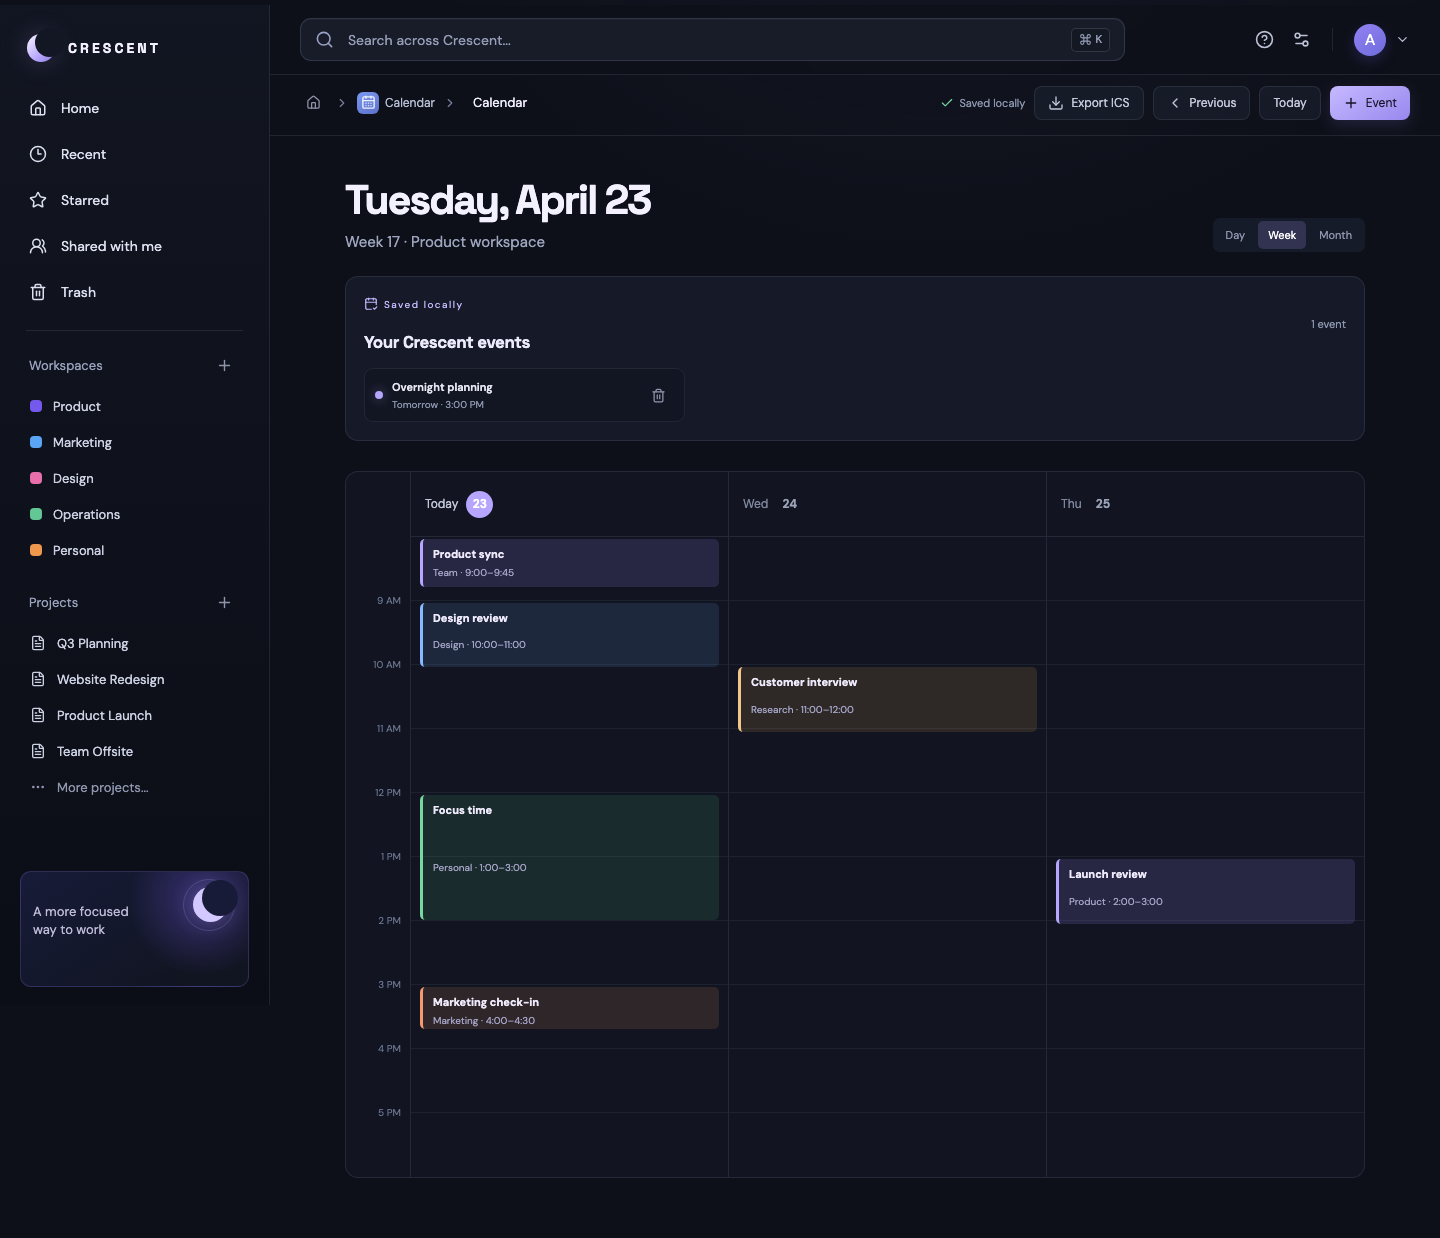
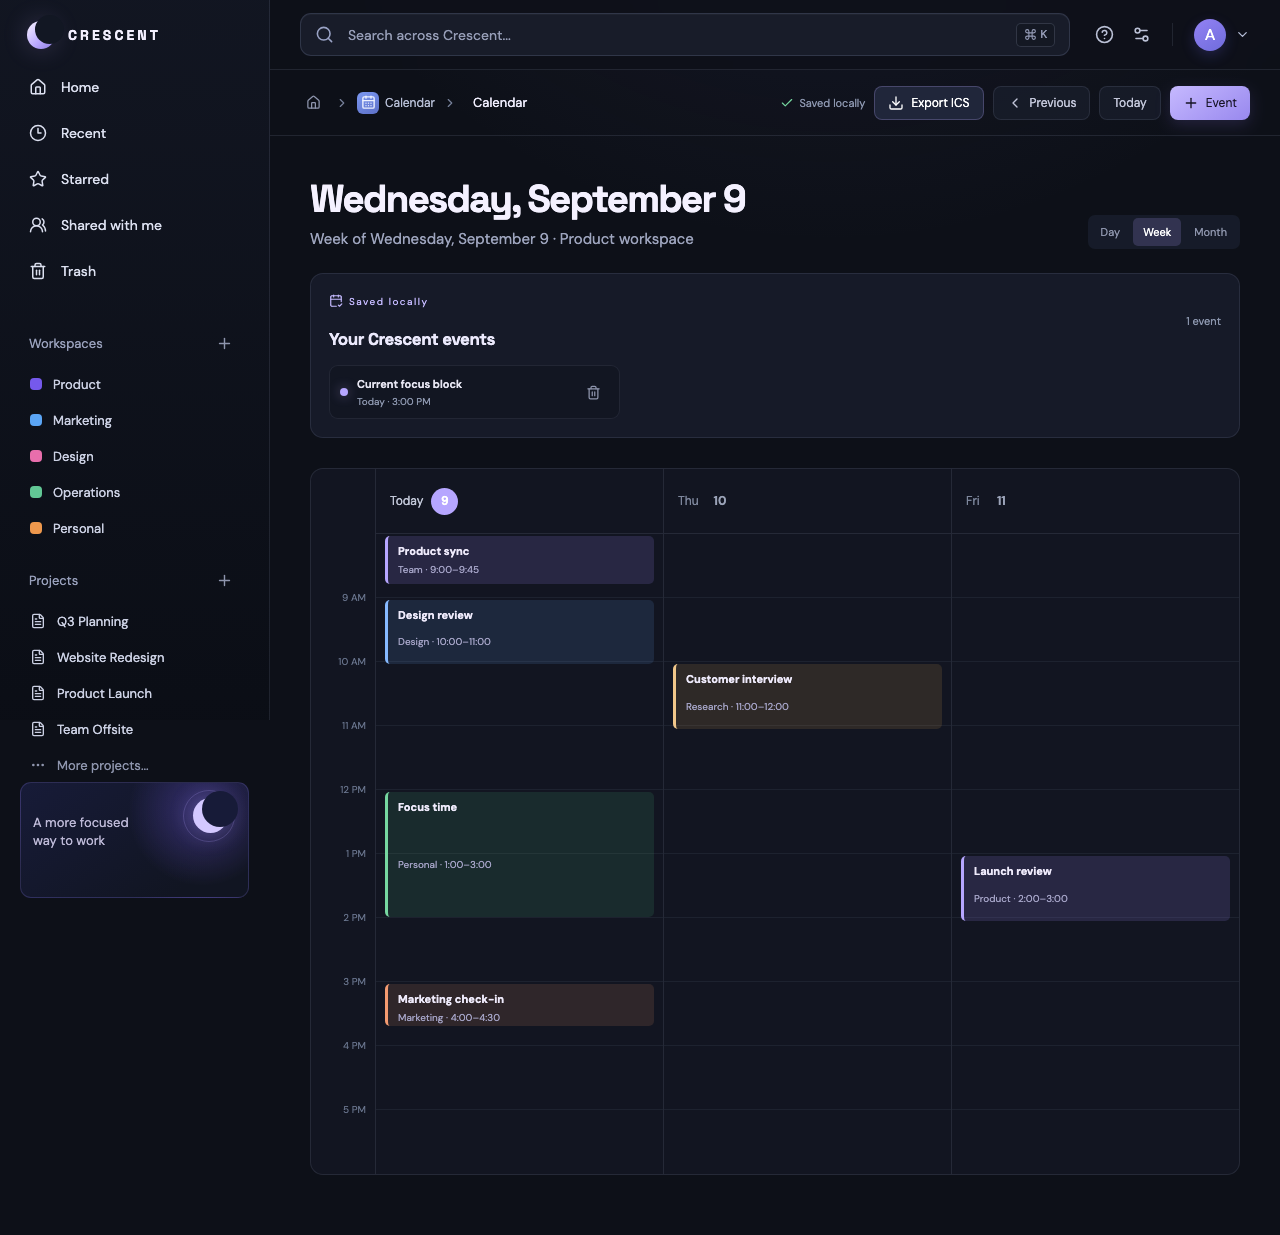
fix: anchor calendar to the current date

diff --git a/src/App.jsx b/src/App.jsx
@@ -266,7 +266,7 @@ function HomeView({ workspace, update, onNavigate }) {
       </section>
     </main>
     <aside className="home-rail">
-      <section className="rail-card day-card"><div className="rail-heading"><div><h3>My day</h3><p>Tue, Apr 23</p></div><button className="text-link" onClick={() => onNavigate("calendar")}>View calendar</button></div>{[...SCHEDULE, ...localSchedule].map((event) => <div className="schedule-row" key={`${event.title}-${event.time}`}><div className="schedule-time"><span>{event.time}</span><span>{event.end}</span></div><span className={`schedule-bar bar-${event.color}`} /><strong>{event.title}</strong></div>)}</section>
+      <section className="rail-card day-card"><div className="rail-heading"><div><h3>My day</h3><p>{new Intl.DateTimeFormat("en-US", { weekday: "short", month: "short", day: "numeric" }).format(new Date())}</p></div><button className="text-link" onClick={() => onNavigate("calendar")}>View calendar</button></div>{[...SCHEDULE, ...localSchedule].map((event) => <div className="schedule-row" key={`${event.title}-${event.time}`}><div className="schedule-time"><span>{event.time}</span><span>{event.end}</span></div><span className={`schedule-bar bar-${event.color}`} /><strong>{event.title}</strong></div>)}</section>
       <section className="rail-card activity-card"><div className="rail-heading"><h3>Activity</h3><button className="text-link" onClick={() => onNavigate("recent")}>See all <ArrowRight size={14} /></button></div>{[{ initials: "TK", color: "lilac", text: "Taylor Kim commented on", target: "Design review deck", time: "10 minutes ago" }, { initials: "JL", color: "green", text: "Jordan Lee edited", target: "Growth metrics", time: "1 hour ago" }, { initials: "SC", color: "violet", text: "Sam Chen shared", target: "Launch assets with you", time: "3 hours ago" }].map((item) => <div className="activity-row" key={item.initials}><span className={`avatar avatar-${item.color}`}>{item.initials}</span><p>{item.text} <strong>{item.target}</strong><small>{item.time}</small></p></div>)}<div className="activity-task"><CalendarCheck2 size={18} /><p>You have <strong>3 tasks due tomorrow</strong><small>5 hours ago</small></p></div></section>
       <button className="ask-card" onClick={() => onNavigate("notes")}><span className="ask-icon"><Sparkles size={16} /></span><span className="ask-copy"><strong>Ask Crescent anything...</strong><small>Find files, draft content, set reminders...</small></span><ArrowRight size={18} /></button>
     </aside>
@@ -417,15 +417,17 @@ function CalendarView({ workspace, update, onNavigate }) {
     downloadText("crescent-calendar.ics", `${calendar}\r\n`, "text/calendar");
     emitNotice(`${localEvents.length} calendar event${localEvents.length === 1 ? "" : "s"} exported.`);
   };
-  const displayDate = new Date(2024, 3, 23 + weekOffset * 7);
+  const displayDate = new Date();
+  displayDate.setHours(0, 0, 0, 0);
+  displayDate.setDate(displayDate.getDate() + weekOffset * 7);
   const displayHeading = new Intl.DateTimeFormat("en-US", { weekday: "long", month: "long", day: "numeric" }).format(displayDate);
   const displayMonth = new Intl.DateTimeFormat("en-US", { month: "long", year: "numeric" }).format(displayDate);
   const shortDisplayDay = new Intl.DateTimeFormat("en-US", { weekday: "short" }).format(displayDate);
   const weekDates = [0, 1, 2].map((dayOffset) => { const date = new Date(displayDate); date.setDate(displayDate.getDate() + dayOffset); return date.getDate(); });
   const monthDays = Array.from({ length: 7 }, (_, index) => { const date = new Date(displayDate); date.setDate(displayDate.getDate() - displayDate.getDay() + index); return { label: new Intl.DateTimeFormat("en-US", { weekday: "short" }).format(date), date: date.getDate(), events: index === 2 ? ["Product sync", "Design review", "Focus time", ...localEvents.map((event) => event.title)] : index === 3 ? ["Customer interview"] : index === 4 ? ["Launch review"] : [] }; });
+  const monthCalendar = <div className="calendar-month-grid">{monthDays.map((day) => <div className={`calendar-month-cell ${weekOffset === 0 && day.date === displayDate.getDate() ? "today" : ""}`} key={`${day.label}-${day.date}`}><div className="calendar-month-head"><span>{day.label}</span><strong>{day.date}</strong></div><div className="calendar-month-events">{day.events.map((event, index) => <span className={`calendar-month-event month-event-${index % 4}`} key={`${day.date}-${event}`}>{event}</span>)}</div></div>)}</div>;
   const weekCalendar = <div className={`calendar-grid ${mode === "day" ? "calendar-grid-day" : ""}`}><div className="calendar-axis"><span /><span>9 AM</span><span>10 AM</span><span>11 AM</span><span>12 PM</span><span>1 PM</span><span>2 PM</span><span>3 PM</span><span>4 PM</span><span>5 PM</span></div><div className="calendar-day"><div className="calendar-day-head"><span>{weekOffset === 0 ? "Today" : shortDisplayDay}</span><strong>{weekDates[0]}</strong></div><div className="calendar-lines">{Array.from({ length: 9 }, (_, index) => <span key={index} />)}<div className="calendar-event event-one"><strong>Product sync</strong><small>Team · 9:00–9:45</small></div><div className="calendar-event event-two"><strong>Design review</strong><small>Design · 10:00–11:00</small></div><div className="calendar-event event-three"><strong>Focus time</strong><small>Personal · 1:00–3:00</small></div><div className="calendar-event event-four"><strong>Marketing check-in</strong><small>Marketing · 4:00–4:30</small></div></div></div><div className="calendar-day muted-day"><div className="calendar-day-head"><span>{new Intl.DateTimeFormat("en-US", { weekday: "short" }).format(new Date(displayDate.getTime() + 86400000))}</span><strong>{weekDates[1]}</strong></div><div className="calendar-lines">{Array.from({ length: 9 }, (_, index) => <span key={index} />)}<div className="calendar-event event-five"><strong>Customer interview</strong><small>Research · 11:00–12:00</small></div></div></div><div className="calendar-day muted-day"><div className="calendar-day-head"><span>{new Intl.DateTimeFormat("en-US", { weekday: "short" }).format(new Date(displayDate.getTime() + 172800000))}</span><strong>{weekDates[2]}</strong></div><div className="calendar-lines">{Array.from({ length: 9 }, (_, index) => <span key={index} />)}<div className="calendar-event event-six"><strong>Launch review</strong><small>Product · 2:00–3:00</small></div></div></div></div>;
-  const monthCalendar = <div className="calendar-month-grid">{monthDays.map((day) => <div className={`calendar-month-cell ${weekOffset === 0 && day.date === 23 ? "today" : ""}`} key={`${day.label}-${day.date}`}><div className="calendar-month-head"><span>{day.label}</span><strong>{day.date}</strong></div><div className="calendar-month-events">{day.events.map((event, index) => <span className={`calendar-month-event month-event-${index % 4}`} key={`${day.date}-${event}`}>{event}</span>)}</div></div>)}</div>;
-  return <div className="calendar-page page-enter"><EditorHeader title="Calendar" icon={APP_META.find((app) => app.id === "calendar")} onChangeTitle={() => {}} onNavigate={onNavigate}><button className="secondary-button" onClick={exportCalendar} disabled={!localEvents.length}><Download size={16} />Export ICS</button><button className="secondary-button" onClick={() => setWeekOffset((current) => current - 1)}><ChevronLeft size={16} />Previous</button><button className="secondary-button" onClick={() => setWeekOffset(0)}>Today</button><button className="primary-button" onClick={addEvent}><Plus size={16} />Event</button></EditorHeader><div className="calendar-content"><div className="calendar-heading"><div><h1>{mode === "month" ? displayMonth : displayHeading}</h1><p>{mode === "month" ? `${displayMonth} · Product workspace` : mode === "day" ? `${shortDisplayDay} · Product workspace` : `Week ${17 + weekOffset} · Product workspace`}</p></div><div className="calendar-switch"><button className={mode === "day" ? "selected" : ""} onClick={() => setMode("day")} aria-pressed={mode === "day"}>Day</button><button className={mode === "week" ? "selected" : ""} onClick={() => setMode("week")} aria-pressed={mode === "week"}>Week</button><button className={mode === "month" ? "selected" : ""} onClick={() => setMode("month")} aria-pressed={mode === "month"}>Month</button></div></div>{localEvents.length > 0 && <section className="calendar-local-events" aria-label="Saved local events"><div className="calendar-local-heading"><div><span className="utility-kicker"><CalendarCheck2 size={14} />Saved locally</span><h2>Your Crescent events</h2></div><small>{localEvents.length} event{localEvents.length === 1 ? "" : "s"}</small></div><div className="calendar-local-list">{localEvents.map((event) => <div className="calendar-local-card" key={event.id}><span className="calendar-local-dot" /><div><strong>{event.title}</strong><small>{event.when}</small></div><button className="icon-button muted" onClick={() => removeEvent(event.id)} aria-label={`Remove ${event.title}`}><Trash2 size={15} /></button></div>)}</div></section>}{mode === "month" ? monthCalendar : weekCalendar}</div></div>;
+  return <div className="calendar-page page-enter"><EditorHeader title="Calendar" icon={APP_META.find((app) => app.id === "calendar")} onChangeTitle={() => {}} onNavigate={onNavigate}><button className="secondary-button" onClick={exportCalendar} disabled={!localEvents.length}><Download size={16} />Export ICS</button><button className="secondary-button" onClick={() => setWeekOffset((current) => current - 1)}><ChevronLeft size={16} />Previous</button><button className="secondary-button" onClick={() => setWeekOffset(0)}>Today</button><button className="primary-button" onClick={addEvent}><Plus size={16} />Event</button></EditorHeader><div className="calendar-content"><div className="calendar-heading"><div><h1>{mode === "month" ? displayMonth : displayHeading}</h1><p>{mode === "month" ? `${displayMonth} · Product workspace` : mode === "day" ? `${shortDisplayDay} · Product workspace` : `Week of ${displayHeading} · Product workspace`}</p></div><div className="calendar-switch"><button className={mode === "day" ? "selected" : ""} onClick={() => setMode("day")} aria-pressed={mode === "day"}>Day</button><button className={mode === "week" ? "selected" : ""} onClick={() => setMode("week")} aria-pressed={mode === "week"}>Week</button><button className={mode === "month" ? "selected" : ""} onClick={() => setMode("month")} aria-pressed={mode === "month"}>Month</button></div></div>{localEvents.length > 0 && <section className="calendar-local-events" aria-label="Saved local events"><div className="calendar-local-heading"><div><span className="utility-kicker"><CalendarCheck2 size={14} />Saved locally</span><h2>Your Crescent events</h2></div><small>{localEvents.length} event{localEvents.length === 1 ? "" : "s"}</small></div><div className="calendar-local-list">{localEvents.map((event) => <div className="calendar-local-card" key={event.id}><span className="calendar-local-dot" /><div><strong>{event.title}</strong><small>{event.when}</small></div><button className="icon-button muted" onClick={() => removeEvent(event.id)} aria-label={`Remove ${event.title}`}><Trash2 size={15} /></button></div>)}</div></section>}{mode === "month" ? monthCalendar : weekCalendar}</div></div>;
 }
 
 function _DriveViewLegacy({ onNavigate }) {

diff --git a/README.md b/README.md
@@ -4,7 +4,7 @@ An all-in-one productivity workspace built to keep the work in one calm, consist
 
 ## Current release
 
-**v0.1.77 — Local-only controls explain their state**
+**v0.1.78 — Calendar Today follows the browser date**
 
 The first release establishes the Crescent product shell and a local-first suite experience:
 
@@ -20,6 +20,7 @@ The first release establishes the Crescent product shell and a local-first suite
 - Tasks can be exported as versioned JSON while retaining completion, project, and due metadata
 - Home Activity’s “See all” now opens the shared Recent workspace instead of ending in a silent no-op
 - Local-only Share, Invite, Night mode, cell-link, and slide-design controls now provide explicit status feedback
+- Calendar Today, Previous, and new-event dates now follow the browser’s actual date instead of the seeded demo date
 - Home reflects saved local calendar events, and Forms keeps its published/response state across navigation
 - Global Search includes locally created tasks, Drive folders, and Calendar events with correct app routing
 - Tasks now filters between All, Today, Open, and Done from the shared editor header

diff --git a/docs/preview/README.md b/docs/preview/README.md
@@ -1,4 +1,4 @@
-# v0.1.77 visual preview
+# v0.1.78 visual preview
 
 These screenshots are committed with Crescent milestones so the product can be reviewed directly from GitHub. The live preview is deployed from `main` through GitHub Pages when Pages is enabled for the repository.
 
